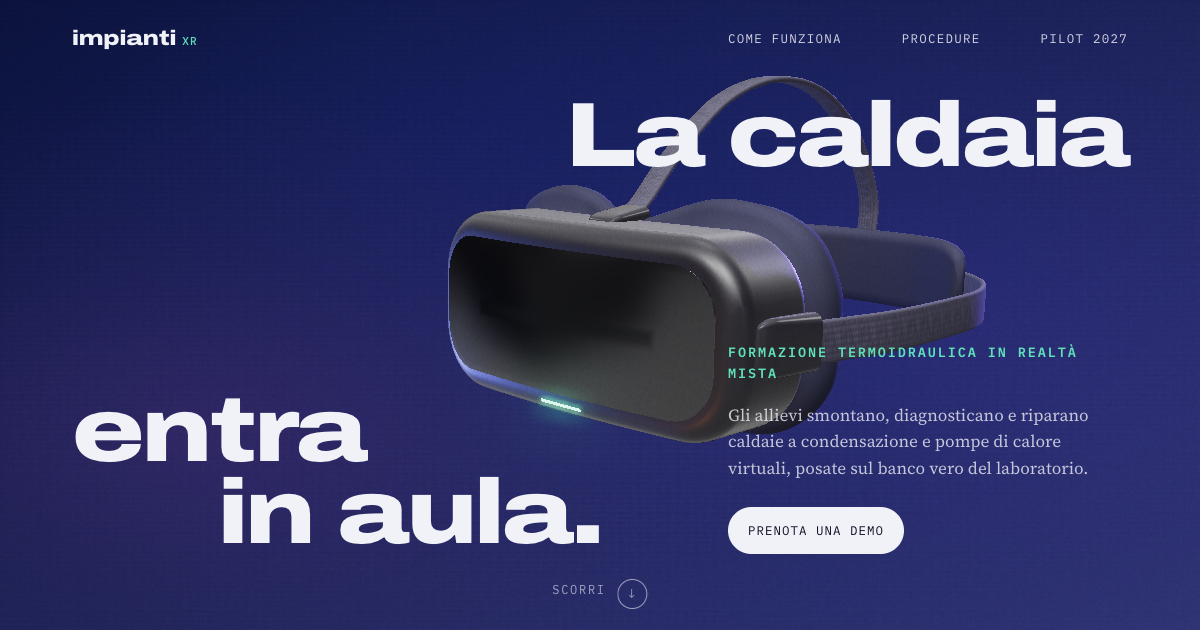
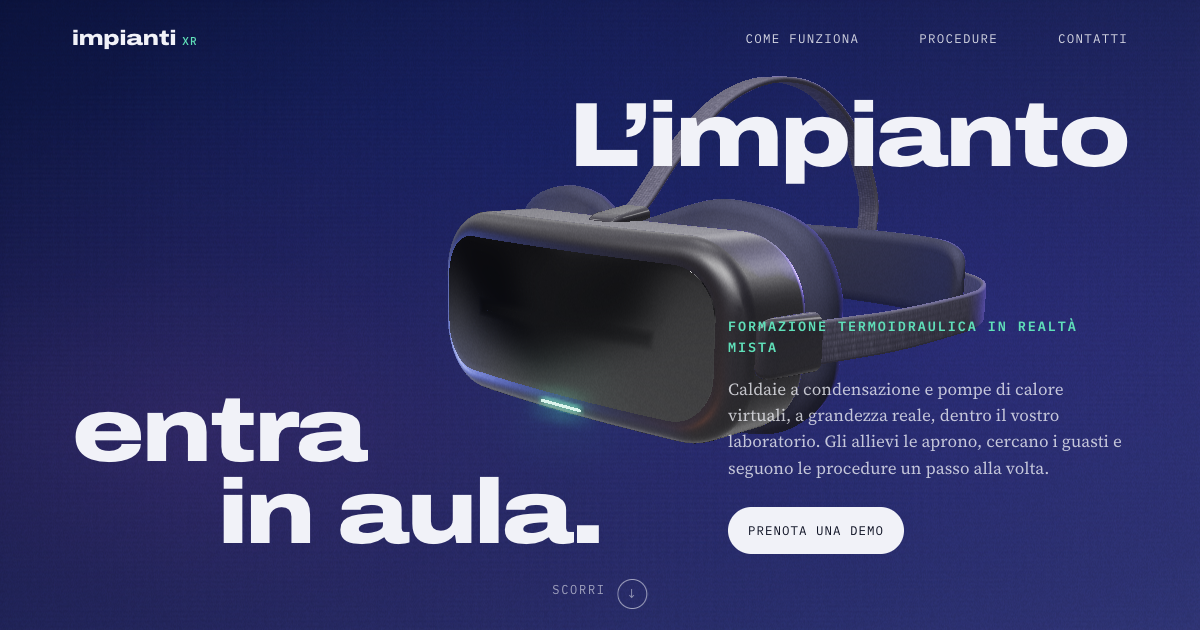
content(sito): testi per tutti gli impianti, procedure in arrivo, progetto pilota
Titolo "L’impianto entra in aula.", meno "banco", stato "nella demo" al posto
di "prototipo" e quattro voci "in arrivo"; Contatti nella barra; anteprima rifatta.

diff --git a/index.html b/index.html
@@ -4,15 +4,15 @@
 <meta name="viewport" content="width=device-width, initial-scale=1, viewport-fit=cover">
 <title>ImpiantiXR</title>
 <meta name="claude:viewport-fit-sides" content="cover">
-<meta name="description" content="Simulatore in realtà mista per la formazione su caldaie a condensazione e pompe di calore.">
+<meta name="description" content="Simulatore in realtà mista per la formazione termoidraulica: caldaie a condensazione e pompe di calore virtuali, a grandezza reale, in aula.">
 <link rel="canonical" href="https://impiantixr.it/">
 <link rel="icon" href="favicon.svg" type="image/svg+xml">
 <link rel="apple-touch-icon" href="apple-touch-icon.png">
 <meta property="og:type" content="website">
 <meta property="og:locale" content="it_IT">
 <meta property="og:site_name" content="ImpiantiXR">
-<meta property="og:title" content="ImpiantiXR: la caldaia virtuale sul banco dell'aula">
-<meta property="og:description" content="Simulatore in realtà mista per la formazione su caldaie a condensazione e pompe di calore.">
+<meta property="og:title" content="ImpiantiXR: l’impianto entra in aula">
+<meta property="og:description" content="Simulatore in realtà mista per la formazione termoidraulica: caldaie a condensazione e pompe di calore virtuali, a grandezza reale, in aula.">
 <meta property="og:url" content="https://impiantixr.it/">
 <meta property="og:image" content="https://impiantixr.it/og.png">
 <meta property="og:image:width" content="1200">
@@ -190,6 +190,8 @@ h1, h2, h3 { font-family: var(--display); text-wrap: balance; margin: 0; }
 .proc-row .app { font-family: var(--mono); font-size: 12px; letter-spacing: .1em; text-transform: uppercase; color: var(--muted); }
 .proc-row h3 { font-size: clamp(19px, 2vw, 25px); font-weight: 650; font-stretch: 100%; letter-spacing: -0.01em; }
 .proc-row .state { font-family: var(--mono); font-size: 12px; color: #2f4f9a; border: 1px solid rgba(47,79,154,.35); padding: 3px 10px; border-radius: 999px; white-space: nowrap; }
+.proc-row.next h3 { color: var(--muted); font-weight: 550; }
+.proc-row.next .state { color: var(--muted); border: 1px dashed rgba(85,92,122,.5); }
 @media (max-width: 640px) { .proc-row { grid-template-columns: minmax(0, 1fr); gap: 6px; } .proc-row .state { justify-self: start; } }
 
 .who { display: grid; grid-template-columns: repeat(2, minmax(0, 1fr)); margin-top: 56px; border-top: 1px solid var(--line); }
@@ -225,7 +227,7 @@ footer { padding-block: 40px 56px; font-family: var(--mono); font-size: 12px; co
   <nav aria-label="Sezioni">
     <a href="#come">Come funziona</a>
     <a href="#procedure">Procedure</a>
-    <a href="#pilot" class="keep">Pilot 2027</a>
+    <a href="#pilot" class="keep">Contatti</a>
   </nav>
 </header>
 
@@ -247,11 +249,11 @@ footer { padding-block: 40px 56px; font-family: var(--mono); font-size: 12px; co
       </div>
 
       <div class="copy hero" data-range="-1,0.12">
-        <h1 class="h-top" data-par="-14">La caldaia</h1>
+        <h1 class="h-top" data-par="-14">L’impianto</h1>
         <h1 class="h-bottom" data-par="14">entra<span>in aula.</span></h1>
         <div class="side">
           <span class="eyebrow">Formazione termoidraulica in realtà mista</span>
-          <p>Gli allievi smontano, diagnosticano e riparano caldaie a condensazione e pompe di calore virtuali, posate sul banco vero del laboratorio.</p>
+          <p>Caldaie a condensazione e pompe di calore virtuali, a grandezza reale, dentro il vostro laboratorio. Gli allievi le aprono, cercano i guasti e seguono le procedure un passo alla volta.</p>
           <div class="actions"><a class="btn solid" href="#pilot">Prenota una demo</a></div>
         </div>
         <div class="scroll" aria-hidden="true">Scorri <i>↓</i></div>
@@ -260,7 +262,7 @@ footer { padding-block: 40px 56px; font-family: var(--mono); font-size: 12px; co
       <div class="copy day" data-range="0.15,0.31">
         <span class="eyebrow ink">Il visore</span>
         <h2><span class="soft">Niente PC.</span><span>Niente cavi.</span></h2>
-        <p>Un visore autonomo per allievo, in aula. Vedi i compagni, il docente e il banco: la caldaia si aggiunge alla stanza.</p>
+        <p>Un visore autonomo per allievo. Si vedono i compagni, il docente e l’aula: l’apparecchio virtuale si aggiunge alla stanza.</p>
         <div class="spec">
           <span>Visore: <b>Meta Quest 3S</b></span>
           <span>Sessione: <b>10–20 minuti</b></span>
@@ -270,13 +272,13 @@ footer { padding-block: 40px 56px; font-family: var(--mono); font-size: 12px; co
 
       <div class="copy vr" data-range="0.47,0.63">
         <span class="eyebrow blue">Dentro il visore</span>
-        <h2>Una caldaia sul banco, a grandezza reale.</h2>
-        <p>L'allievo la posa sul banco del laboratorio, ci gira intorno e la apre con i controller. Il pannello accanto mostra il passo da fare.</p>
+        <h2>A grandezza reale, a portata di mano.</h2>
+        <p>L’allievo posa la caldaia su un tavolo dell’aula, ci gira intorno e la apre con i controller. Il pannello accanto mostra il passo da fare.</p>
       </div>
 
       <div class="copy vr" data-range="0.72,1.5">
         <span class="eyebrow blue">Ogni pezzo al suo posto</span>
-        <h2>Si indica, si smonta, si rimonta.</h2>
+        <h2>Si indica, si smonta, si impara.</h2>
         <p>La procedura controlla ogni gesto. Se l'allievo sbaglia, il pannello lo dice e mostra il pezzo giusto. Tempi, errori e aiuti finiscono nel report.</p>
         <p class="hovertip"><span class="fine">Passa il mouse sui componenti</span><span class="coarse">Tocca i componenti</span></p>
       </div>
@@ -289,24 +291,28 @@ footer { padding-block: 40px 56px; font-family: var(--mono); font-size: 12px; co
     <div class="wrap">
       <section class="block" id="come">
         <span class="eyebrow">Come funziona</span>
-        <h2>Dieci minuti di simulazione prima del banco vero.</h2>
-        <p class="lead">Non sostituisce il laboratorio: lo prepara. In VR si fa quello che al banco costa, è pericoloso o non si vede: aprire il generatore, provocare un guasto, ripetere finché la sequenza è giusta.</p>
+        <h2>Dieci minuti in simulazione, poi le mani sull’impianto vero.</h2>
+        <p class="lead">Non sostituisce il laboratorio: lo prepara. In realtà mista si fa quello che su un impianto vero costa, è pericoloso o non si vede: aprire l’apparecchio, provocare un guasto, ripetere finché la sequenza è giusta.</p>
         <ol class="steps">
-          <li><h3>Posa la caldaia</h3><p>Punti il banco con il controller e la caldaia compare, appoggiata e girata verso di te.</p></li>
+          <li><h3>Posa l’apparecchio</h3><p>Scegli caldaia o pompa di calore, punti un tavolo con il controller e l’apparecchio compare lì, girato verso di te.</p></li>
           <li><h3>Segui la procedura</h3><p>Manutenzione, guasti da diagnosticare, componenti dell'impianto. Un pannello guida un passo alla volta.</p></li>
           <li><h3>Leggi il report</h3><p>Per ogni allievo tempi, errori e aiuti, passo per passo, in un file che si apre con Excel.</p></li>
         </ol>
       </section>
 
       <section class="block" id="procedure">
-        <span class="eyebrow">Nel prototipo, oggi</span>
-        <h2>Quattro procedure, due apparecchi.</h2>
-        <p class="lead">Caldaia murale a condensazione e pompa di calore aria-acqua monoblocco in R290, generiche e senza marchio. I contenuti sono scritti dai manuali tecnici e passano dalla revisione di un docente esperto prima dell'uso in aula.</p>
+        <span class="eyebrow">Procedure</span>
+        <h2>Cosa c’è oggi, cosa arriva.</h2>
+        <p class="lead">Si parte da due apparecchi generici, senza marchio: una caldaia murale a condensazione e una pompa di calore aria-acqua monoblocco in R290. I contenuti sono scritti a partire dai manuali tecnici e, prima dell’uso in aula, li rivede un docente esperto.</p>
         <div class="proc">
-          <div class="proc-row"><span class="app">Caldaia</span><h3>Manutenzione ordinaria: elettrodo e sifone della condensa</h3><span class="state">prototipo</span></div>
-          <div class="proc-row"><span class="app">Caldaia</span><h3>Guasto: la caldaia va in blocco e non si accende</h3><span class="state">prototipo</span></div>
-          <div class="proc-row"><span class="app">Caldaia</span><h3>Guasto: pressione bassa, componenti dell'impianto</h3><span class="state">prototipo</span></div>
-          <div class="proc-row"><span class="app">Pompa di calore</span><h3>Pompa di calore aria-acqua: componenti e ciclo</h3><span class="state">prototipo</span></div>
+          <div class="proc-row"><span class="app">Caldaia</span><h3>Manutenzione ordinaria: elettrodo e sifone della condensa</h3><span class="state">nella demo</span></div>
+          <div class="proc-row"><span class="app">Caldaia</span><h3>Guasto: la caldaia va in blocco e non si accende</h3><span class="state">nella demo</span></div>
+          <div class="proc-row"><span class="app">Caldaia</span><h3>Guasto: pressione bassa, componenti dell’impianto</h3><span class="state">nella demo</span></div>
+          <div class="proc-row"><span class="app">Pompa di calore</span><h3>Pompa di calore aria-acqua: componenti e ciclo</h3><span class="state">nella demo</span></div>
+          <div class="proc-row next"><span class="app">In aula</span><h3>Modalità istruttore: il docente guida, gli allievi seguono in sincrono</h3><span class="state">in arrivo</span></div>
+          <div class="proc-row next"><span class="app">Caldaia e PdC</span><h3>Altri guasti da diagnosticare</h3><span class="state">in arrivo</span></div>
+          <div class="proc-row next"><span class="app">Climatizzazione</span><h3>Climatizzatori e refrigeranti, F-gas e R290</h3><span class="state">in arrivo</span></div>
+          <div class="proc-row next"><span class="app">Su misura</span><h3>Procedure sui vostri apparecchi e sui vostri programmi</h3><span class="state">in arrivo</span></div>
         </div>
       </section>
 
@@ -324,9 +330,9 @@ footer { padding-block: 40px 56px; font-family: var(--mono); font-size: 12px; co
       <section class="block" id="pilot">
         <div class="pilot-band">
           <div>
-            <span class="eyebrow">Pilot 2027</span>
-            <h2>Cerchiamo tre enti per il primo pilot.</h2>
-            <p class="lead">Una demo in aula di mezz'ora, con i vostri docenti. Poi, se vi convince, un semestre di prova sui vostri corsi.</p>
+            <span class="eyebrow">Progetto pilota 2027</span>
+            <h2>Cerchiamo tre enti pilota.</h2>
+            <p class="lead">Una demo di mezz’ora nella vostra sede, con i vostri docenti. Se vi convince, un semestre di prova sui vostri corsi, a condizioni riservate ai primi enti. E i vostri docenti ci aiutano a scegliere le prossime procedure.</p>
           </div>
           <div class="card">
             <dl>
